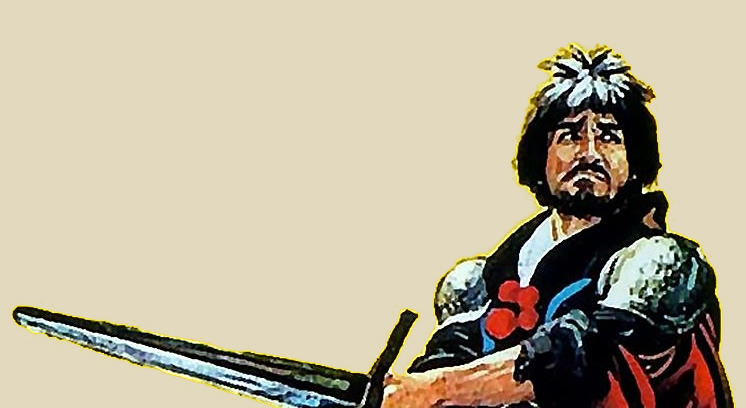
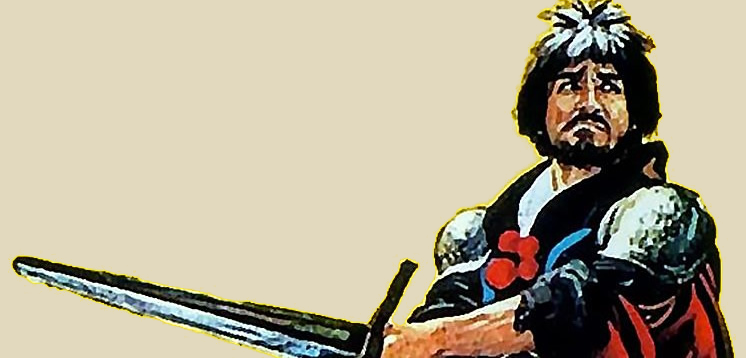
fix(ui): compact About dialog to avoid scrollbar

Changed region(s): [[0.0, 0.0, 0.9866, 1.0]]

diff --git a/ui/src/lib/AboutDialog.svelte b/ui/src/lib/AboutDialog.svelte
@@ -104,12 +104,12 @@
     display: flex;
     flex-direction: column;
     align-items: center;
-    gap: 10px;
+    gap: 6px;
     text-align: center;
   }
   .pic {
     width: 100%;
-    max-height: 280px;
+    max-height: 190px;
     object-fit: contain;
     border-radius: 6px;
   }
@@ -146,8 +146,8 @@
   dl {
     display: grid;
     grid-template-columns: 110px 1fr;
-    gap: 4px 10px;
-    margin: 8px 0 0;
+    gap: 2px 10px;
+    margin: 4px 0 0;
     width: 100%;
     text-align: left;
     font-size: 13px;
